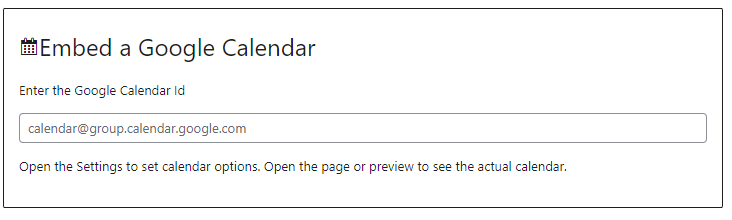
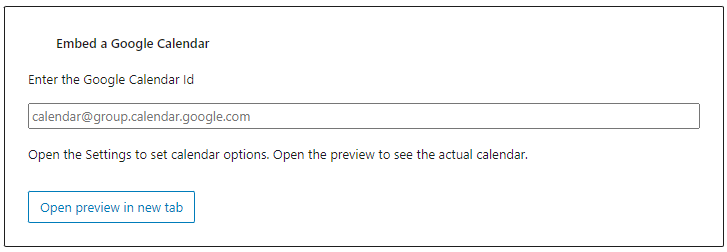
update after changes to map & calendar blocks

diff --git a/map.md b/map.md
@@ -2,11 +2,15 @@
 title: Map Block
 ---
 
-The Map block is used to display a Google map and directions, both initially hidden when the page loads.
+The Map block is used to display a Google map and directions, with both initially hidden when the page loads.
 
-It is normally used inside a [Location block](location.md) so that a Club's address can be associated with its map coordinates, and if you select a standalone map it will display a warning to that effect. You can [transform a Map block](https://gutenberghub.com/how-to-transform-a-block/) into a Location block if needed.
+It is normally used inside a [Location block](location.md) so that a Club's address can be associated with its map coordinates, and if you select a standalone map it will display a warning to that effect when selected. You can [transform a Map block](https://gutenberghub.com/how-to-transform-a-block/) into a Location block if needed.
 
-For the map to display you need to set its coordinates. If you already know them you can add them in the block settings, otherwise you can use 'Set coordinates on map' button:
+For the map to display properly you need to set its coordinates. If you already know them you can add them in the block settings (don't forget to click 'Update Coordinates' when you're done).
+
+![Map settings](assets/img/map-setttings.png)
+
+Otherwise you can use the 'Set coordinates on map' button from the block settings (above) or toolbar (below).
 
 ![Set Map coordinates](assets/img/map-set-coordinates-on-map.png)
 
@@ -14,6 +18,12 @@ That will take you to a dialog with a Google map, where you can drag a marker or
 
 **Note:** If your map is within a Location block you should enter the address before opening the dialog, as the map will start at that address if there are no coordinates set.
 
-Enter directions below the map. Since 99.9% of people have a SatNav on their phones only add anything if the route is complicated, or things like the postcode taking people to the wrong place. And if possible add information about public transport.
+Enter directions below the map. Since 99.9% of people have a SatNav on their phones only add anything if the route is complicated, or things like the postcode taking people to the wrong place. And if possible add information about public transport. Remember, the directions will start hidden, so if you have crucial information then put it above the map.
+
+Once complete the block in the editor will look like:
+
+![Completed Map Editor](assets/img/map-complete-editor.png)
+
+And when live it will display as:
 
 ![Completed Map](assets/img/map-complete.png)

diff --git a/google-calendar.md b/google-calendar.md
@@ -6,7 +6,9 @@ The Google Calendar block (don't pick the Calendar block) allows you display a G
 
 ![Calendar block](assets/img/cal.png)
 
-You will need to obtain the calendar id. If you don't own or subscribe to the calendar then you will need to get the id from the owner, but assuming you do then go to [Google Calendar](https://calendar.google.com/), and go to the options for that calendar
+Note that we don't show the live calendar in the editor, but once you have entered the Calendar Id you can simply open the preview to see what it will look like.
+
+You will need to obtain the Calendar Id. If you don't own or subscribe to the calendar then you will need to get the id from the owner, but assuming you do then go to [Google Calendar](https://calendar.google.com/), and go to the options for that calendar.
 
 ![Google Calendar options](assets/img/google-cal-options.png)
 
@@ -28,7 +30,7 @@ it will appear on the site as below ("Germany Lacrosse Convention 2022" is a lin
 
 ![Enhanced Calendar](assets/img/cal-enhanced.png)
 
-To set the enhanced mode you need to open the block settings (select the block, and if the settings are not open then click the gear icon in the top right.
+To set the enhanced mode you need to open the block settings (select the block, and if the settings are not open then click the gear icon in the top right).
 
 You can specify colours for the tags (default blue) under the Tags setting.
 
